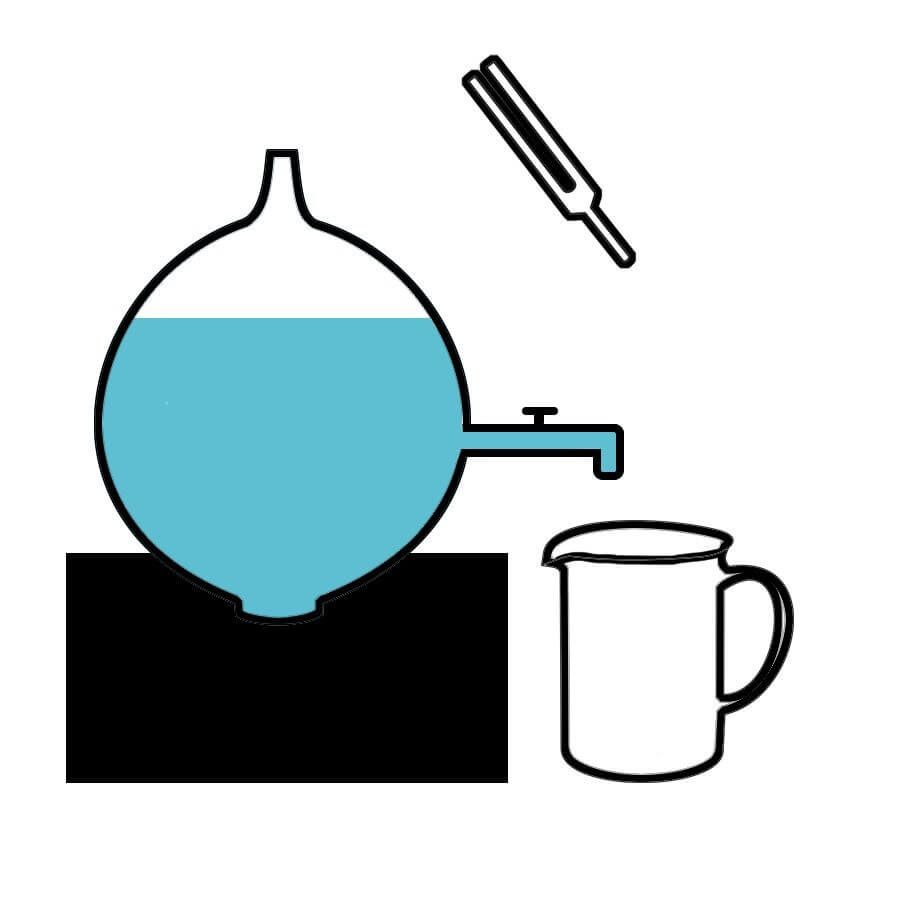
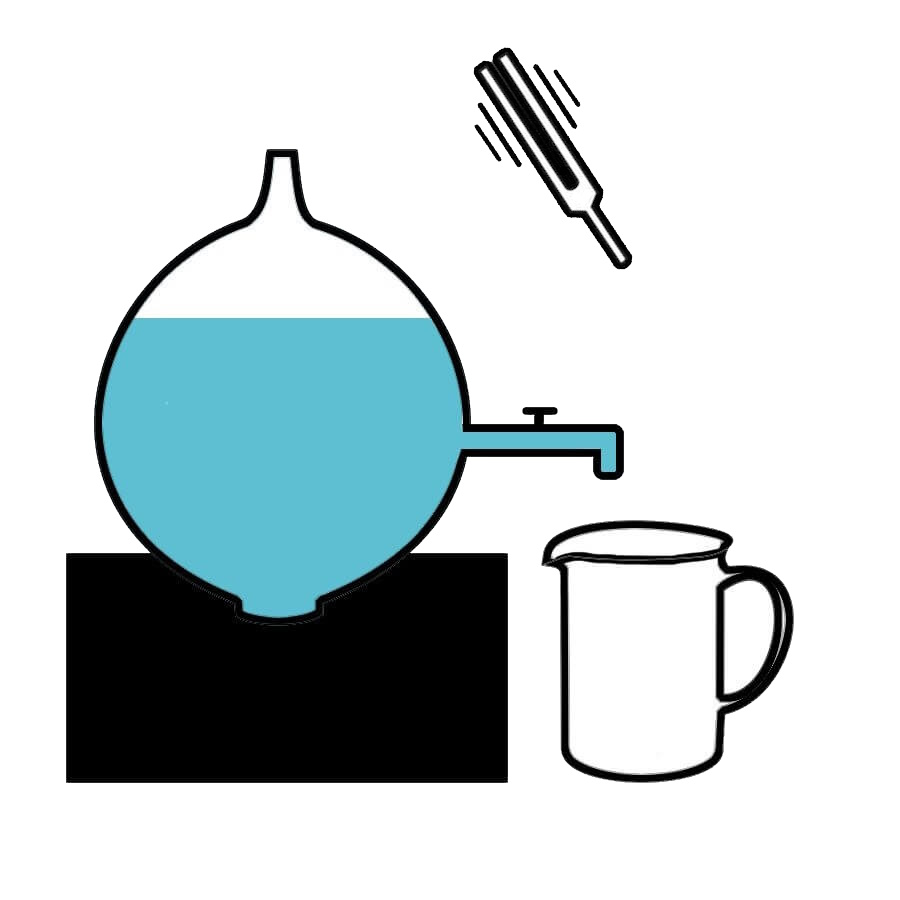
DXP2 review comments are rectified

Changed region(s): [[0.4978, 0.0311, 0.7156, 0.3111]]

diff --git a/experiment/simulation/js/script.js b/experiment/simulation/js/script.js
@@ -79,6 +79,7 @@ function getValue() {
   document.getElementById("fill1").innerHTML = inp.value;
 }
 function Fill() {
+  document.querySelector(".fill").disabled = true;
   var pic;
   pic = "images/img2.jpg";
   document.getElementById("resonatorImage").src = pic;
@@ -129,6 +130,32 @@ var images = [
 ];
 
 function startAnimation() {
+  document.querySelector(".strt").disabled = true;
+  resonateWithRubber();
+}
+
+function resonateWithRubber() {
+  document.querySelector(".step-info").innerHTML =
+    "Hit the tuning fork on a rubber pad to vibrate it.";
+  document.getElementById("resonatorImage").style.display = "none";
+  document.querySelector(".rubber-pad").style.display = "block";
+  document.querySelector(".stiff").style.animation =
+    "animateRubber 1s  forwards";
+  setTimeout(function () {
+    document.querySelector(".stiff").style.display = "none";
+    document.querySelector(".vibrated").style.display = "block";
+    setTimeout(function () {
+      document.querySelector(".rubber-pad").style.display = "none";
+      document.querySelector(".vibrated").style.display = "none";
+      startResonator();
+    }, 1000);
+  }, 1100);
+}
+
+function startResonator() {
+  document.querySelector(".step-info").innerHTML =
+    "Keep the tuning fork on the resonator mouth to observe the resonance";
+  document.getElementById("resonatorImage").style.display = "block";
   var image = document.getElementById("resonatorImage");
   image.src = images[counter];
   if (counter === 16) {
@@ -136,11 +163,11 @@ function startAnimation() {
     return;
   }
   counter = (counter + 1) % 17;
-  setTimeout(startAnimation, 700);
+  setTimeout(startResonator, 700);
   document.getElementById("att").disabled = false;
   document.getElementById("obsvtns").disabled = false;
-  //  document.getElementById('shwrslt').disabled=false;
 }
+
 function addtable() {
   var table = document.getElementById("obstable");
   var row = table.insertRow(num);

diff --git a/experiment/simulation/index.html b/experiment/simulation/index.html
@@ -63,7 +63,7 @@
             <a href="#" class="tool-link" id="refreshLink" title="Refresh">
               <img id="reset" type="reset" onclick="Refresh()" src="images/bluecwdull.svg" alt="Refresh Button" class="reset">
             </a>
-            <span class="refresh">Refresh</span>
+            <span class="refresh">Reset</span>
           </li>
           
 
@@ -128,10 +128,17 @@
            
               <div class="task-screen practice hide">
                 <div id="mainsimulation" style='display: flex;align-items: center;justify-content: center;'>
+                  <div class="rubber-pad">
+                    <img src="./images/1.png" alt="" id="rubber" class="rubber">
+                    <img src="./images/stiff.png" alt="" id="stiff" class="stiff">
+                    <img src="./images/vibrated.png" alt="" id="vibrated" class="vibrated">
+                  </div>
                   <img id="resonatorImage" src="images/img1.jpg" alt="" class="resonatorImage">
                   <!-- <a href='index.html'><img src="images/arrow rev.png" style='position:relative;right:535px;top:10px;' alt=""></a> -->
-                  <p id="add" style="display: none;bottom:550px;">Added Successfully!</p>
+                  
+                   <p id="add" style="display: none;bottom:550px;">Added Successfully!</p>
                   </div>
+                  <p class="step-info"></p>
 
             </div>
             <div id="observation" class="observation">

diff --git a/experiment/simulation/css/style.css b/experiment/simulation/css/style.css
@@ -421,6 +421,61 @@ h1 {
   display: flex;
   gap: 2rem;
 }
+
+.rubber-pad {
+  position: relative;
+  height: 25rem;
+  display: none;
+}
+
+.rubber {
+  position: absolute;
+  left: -15rem;
+  bottom: 0;
+  width: 17rem;
+}
+
+.stiff {
+  left: -10rem;
+  position: absolute;
+  top: 11rem;
+  width: 15rem;
+}
+
+.vibrated {
+  left: -10rem;
+  position: absolute;
+  top: 5rem;
+  width: 15rem;
+  display: none;
+}
+
+@keyframes animateRubber {
+  0% {
+    top: 5rem;
+  }
+  50% {
+    top: 11rem;
+  }
+  100% {
+    top: 5rem;
+  }
+}
+@-webkit-keyframes animateRubber {
+  0% {
+    top: 5rem;
+  }
+  50% {
+    top: 11rem;
+  }
+  100% {
+    top: 5rem;
+  }
+}
+
+.step-info {
+  grid-column: 1/-1;
+}
 .btn {
   padding: 1rem;
   font-weight: 700;
@@ -475,7 +530,7 @@ h1 {
   grid-column: 1/-1;
   letter-spacing: 0.2rem;
 }
-.btn:disabled {
+.button-grid button:disabled {
   background-image: linear-gradient(
     to bottom,
     var(--clr-body-clr),
